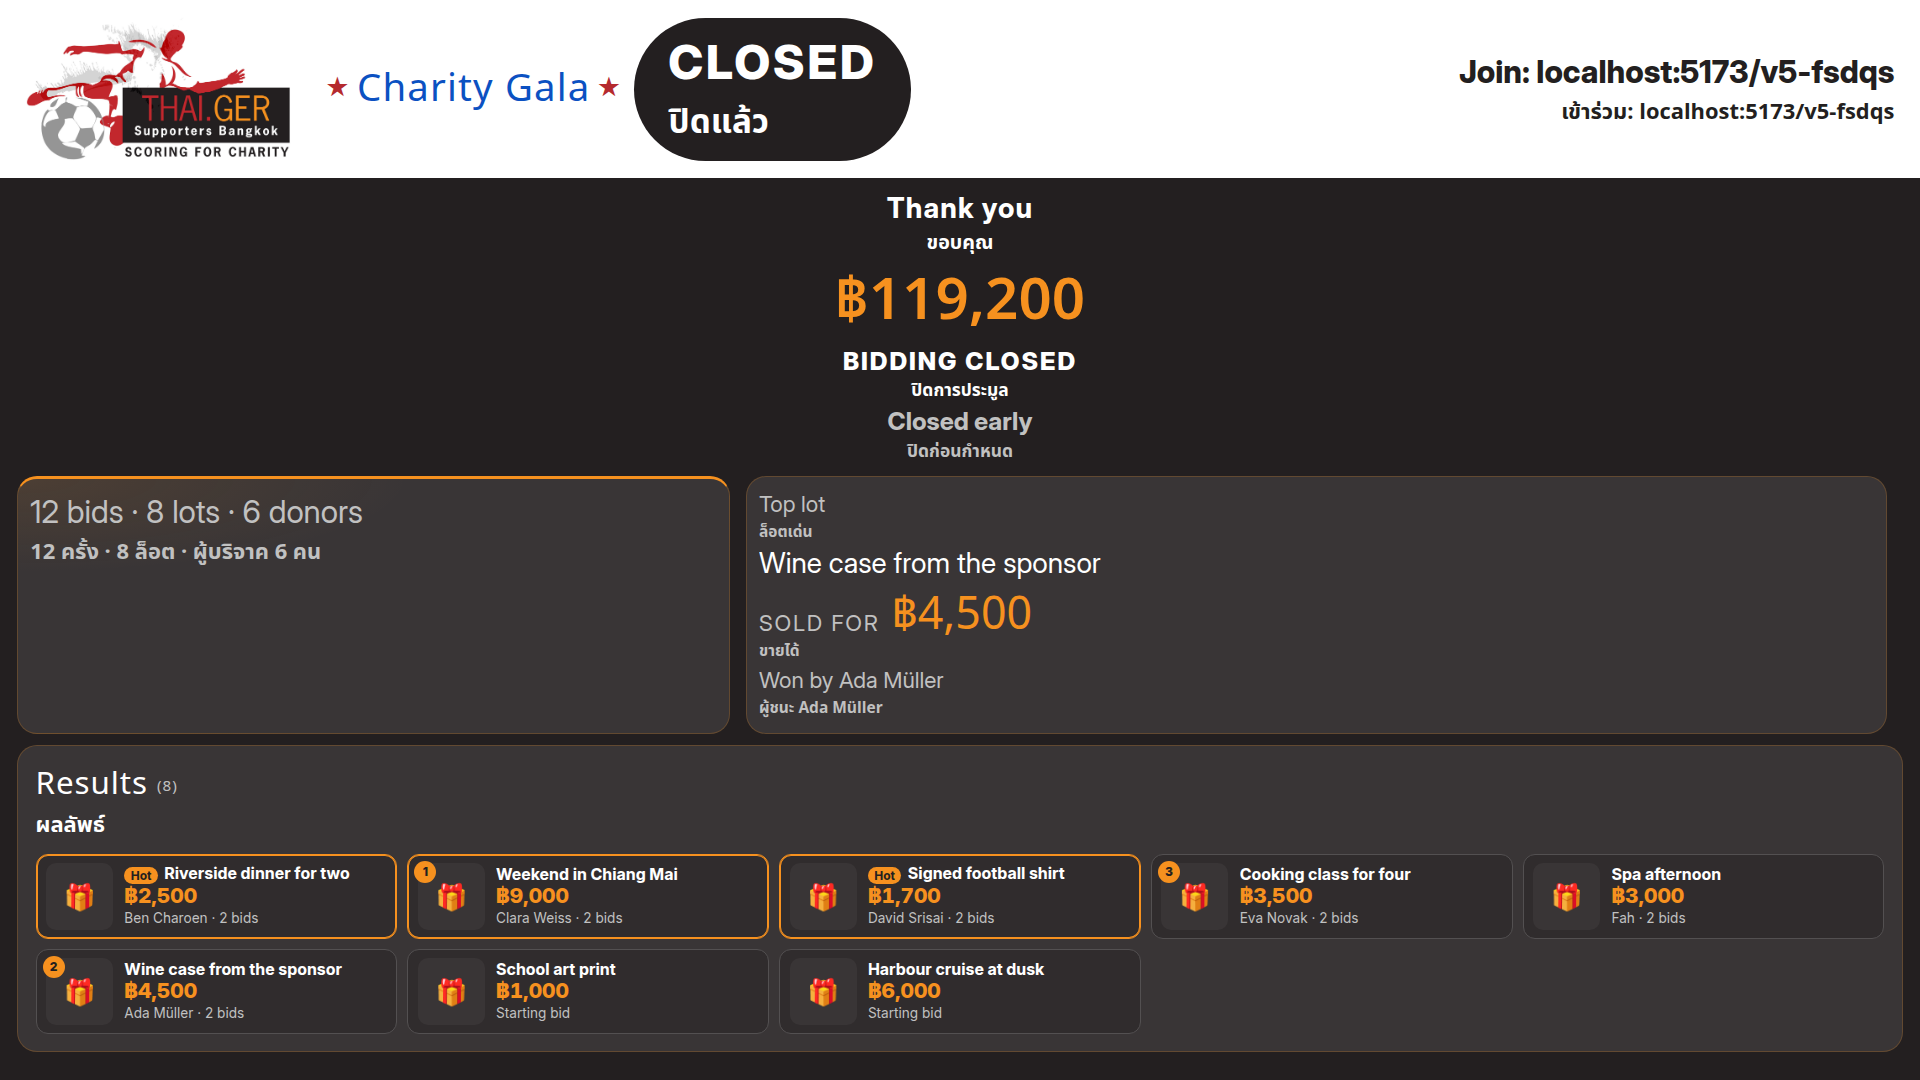
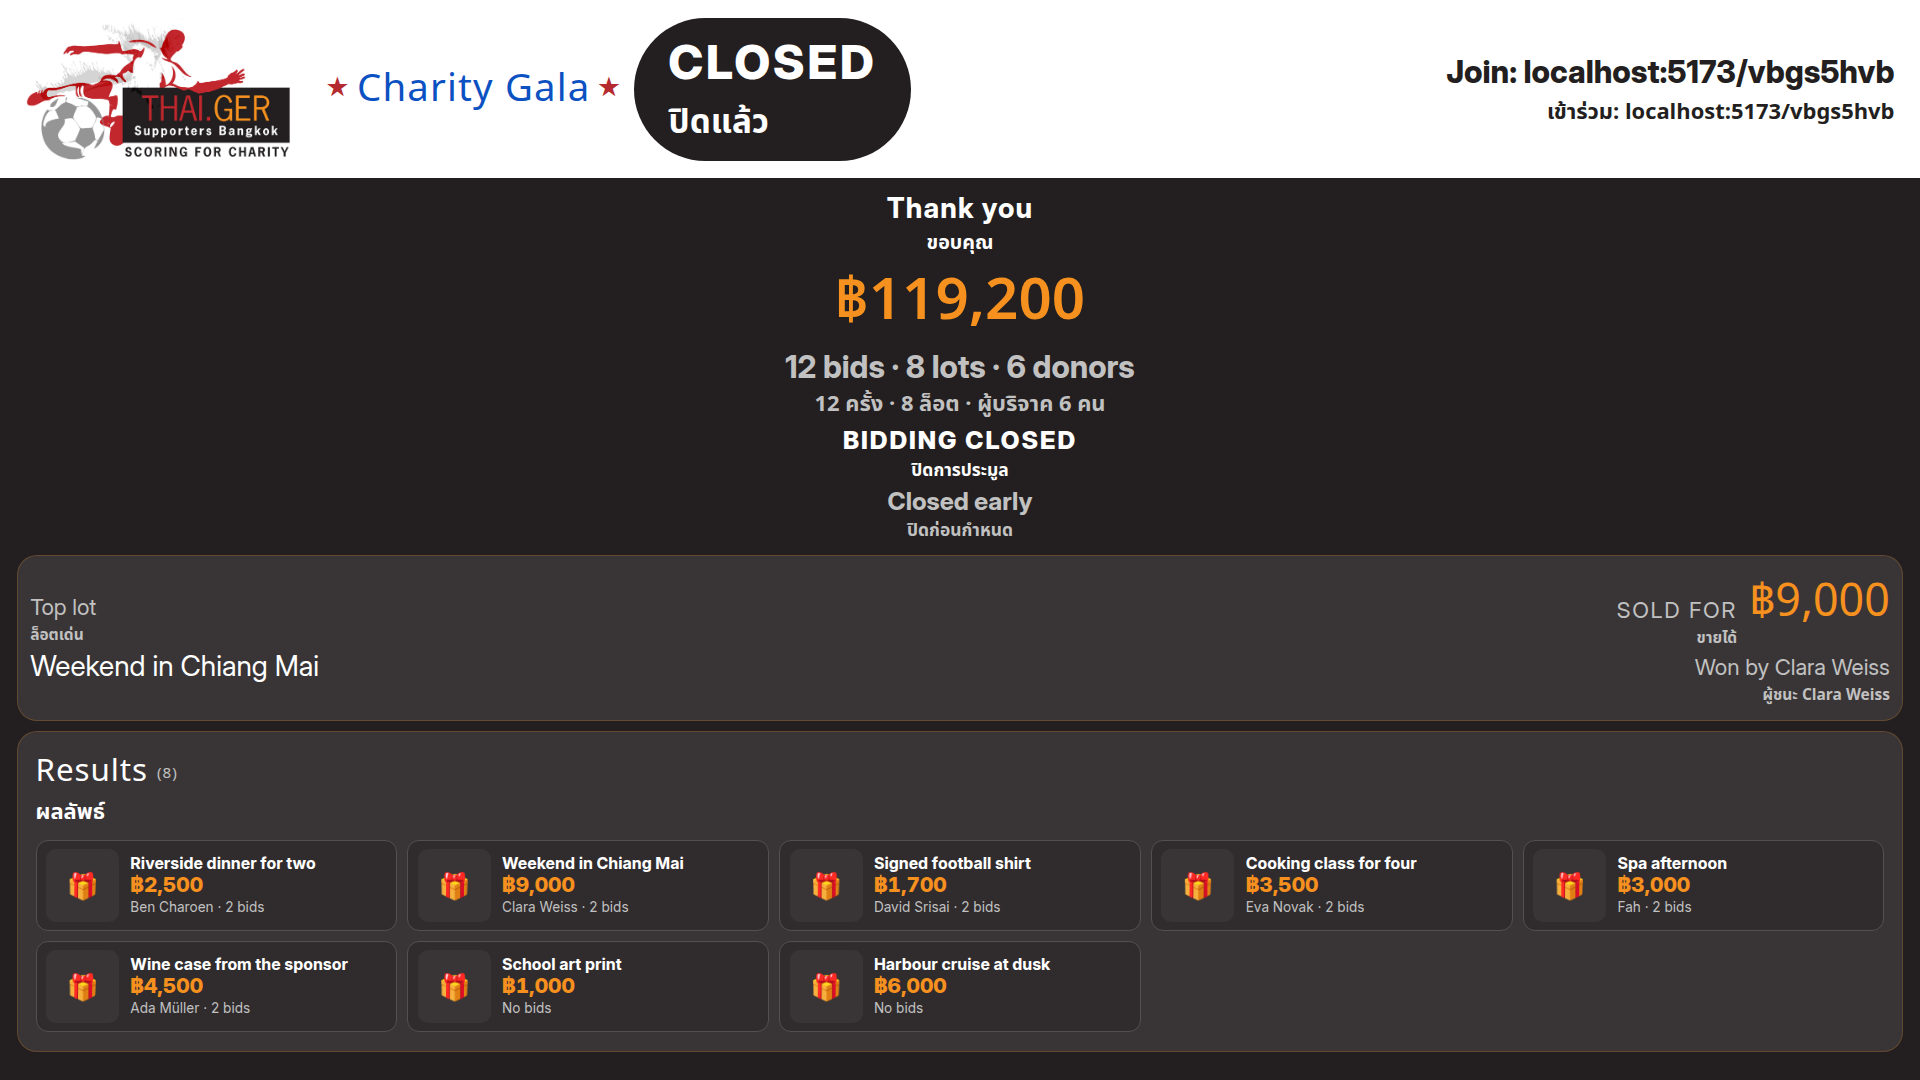
Lay the closed top lot across the row.
The sale sits beside the lot name, so the results grid keeps a full
page: eight lots at 1080p and four at 720p.

diff --git a/web/src/pages/EngagerPage.tsx b/web/src/pages/EngagerPage.tsx
@@ -581,22 +581,24 @@ export function EngagerPage() {
               <div className="highlight-text">
                 <p className="muted"><Line mode={screenLang} k="screen.topLot" /></p>
                 {highlight ? (
-                  <>
-                    <h2 className="lot-title">{highlight.title}</h2>
-                    <p className="spot-sale">
-                      <span className="spot-label"><Dual mode={screenLang} text={(lang) => spotLabel(lang, highlight, true)} /></span>
-                      <span className="big-amount">{money(spotAmount(highlight))}</span>
-                    </p>
-                    {(highlight.bidCount > 0 || highlight.soldViaBuyNow) && (
-                      <p className="muted spot-sub">
-                        <Dual mode={screenLang} text={(lang) => translate(lang, "screen.wonBy", { name: highlight.highBidder ?? "—" })} />
-                      </p>
-                    )}
-                  </>
+                  <h2 className="lot-title">{highlight.title}</h2>
                 ) : (
                   <p className="muted"><Line mode={screenLang} k="screen.noBidsClosed" /></p>
                 )}
               </div>
+              {highlight && (
+                <div className="highlight-sale">
+                  <p className="spot-sale">
+                    <span className="spot-label"><Dual mode={screenLang} text={(lang) => spotLabel(lang, highlight, true)} /></span>
+                    <span className="big-amount">{money(spotAmount(highlight))}</span>
+                  </p>
+                  {(highlight.bidCount > 0 || highlight.soldViaBuyNow) && (
+                    <p className="muted spot-sub">
+                      <Dual mode={screenLang} text={(lang) => translate(lang, "screen.wonBy", { name: highlight.highBidder ?? "—" })} />
+                    </p>
+                  )}
+                </div>
+              )}
             </div>
           ) : highlight ? (
             <div className="highlight-row">

diff --git a/web/src/styles.css b/web/src/styles.css
@@ -1367,3 +1367,13 @@ label.file-btn input[type="file"] {
   .engager.lang-both .highlight .spot-sub { font-size: clamp(1.1rem, 2.05vh, 1.5rem); }
   .engager.lang-both .highlight-row .highlight-photo { max-height: 11vh; }
 }
+
+/* Closed top lot uses the full row: the name on the left, the sale on the right. */
+.engager.is-closed .highlight-row.is-result {
+  grid-template-columns: minmax(0, 1.35fr) minmax(0, 0.9fr);
+  align-items: center;
+  gap: clamp(0.75rem, 2vw, 2.5rem);
+}
+.engager.is-closed .highlight-sale { text-align: right; min-width: 0; }
+.engager.is-closed .highlight-sale .spot-sale { justify-content: flex-end; }
+.engager.is-closed .highlight-sale .spot-sub { margin: 0.1rem 0 0; }

diff --git a/docs/ux-review.md b/docs/ux-review.md
@@ -68,4 +68,4 @@ The bid card already had the centred amount, −/+, the leader, and a filled `Bi
 
 ## Checked
 
-No console errors on the seeded pass. Web typecheck, web tests and the web build were run on this branch. Thai at 1080p is 33.3px on headlines and 70% of every secondary English line (21.9px under a 31.3px label). The logo aspect on the guest header is 64px tall by 114px wide, which is 1280×719. On the projector the same file is 151px tall at 1080p (96px at 720p), about 85% of the white band, with clear space above and below. The right of that band reads “Join: host/code” at 31px (24px at 720p), Thai underneath. The screen is a 100vh grid. Tiles size to their text, and lists draw only whole rows. Raised so far is the label, the total and one tally line. On a closed night that tally sits under the total, and Top lot — the highest price a lot actually sold for, earliest on a tie — takes the full row: name, Sold for, winner. The QR has no URL under it. A closed night hides Latest bids and gives that width to Results. Results drop the live Hot and rank badges; a lot with no bids reads No bids. Closed early sits under the thank-you; at 1080p it is 25px (17px Thai). Live is a red pill; closed is solid ink. The last minute is one centre timer, and the closed screen leads with thank-you and the total.
+No console errors on the seeded pass. Web typecheck, web tests and the web build were run on this branch. Thai at 1080p is 33.3px on headlines and 70% of every secondary English line (21.9px under a 31.3px label). The logo aspect on the guest header is 64px tall by 114px wide, which is 1280×719. On the projector the same file is 151px tall at 1080p (96px at 720p), about 85% of the white band, with clear space above and below. The right of that band reads “Join: host/code” at 31px (24px at 720p), Thai underneath. The screen is a 100vh grid. Tiles size to their text, and lists draw only whole rows. Raised so far is the label, the total and one tally line. On a closed night that tally sits under the total, and Top lot — the highest price a lot actually sold for, earliest on a tie — takes the full row, with the name on the left and Sold for plus the winner on the right. The QR has no URL under it. A closed night hides Latest bids and gives that width to Results. Results drop the live Hot and rank badges; a lot with no bids reads No bids. Closed early sits under the thank-you; at 1080p it is 25px (17px Thai). Live is a red pill; closed is solid ink. The last minute is one centre timer, and the closed screen leads with thank-you and the total.
